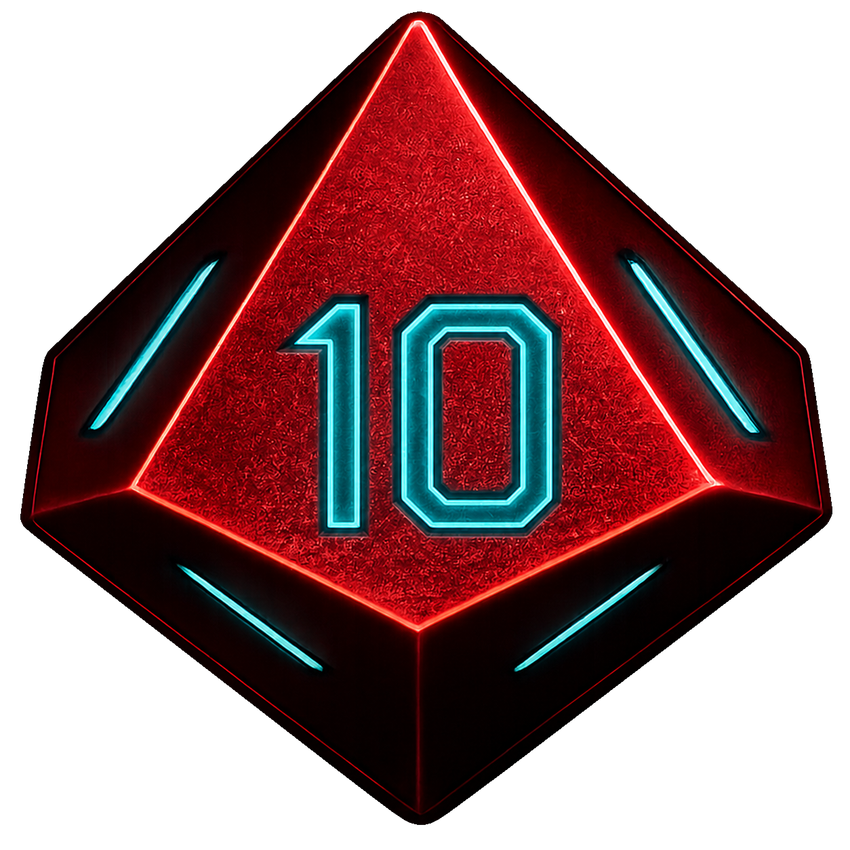
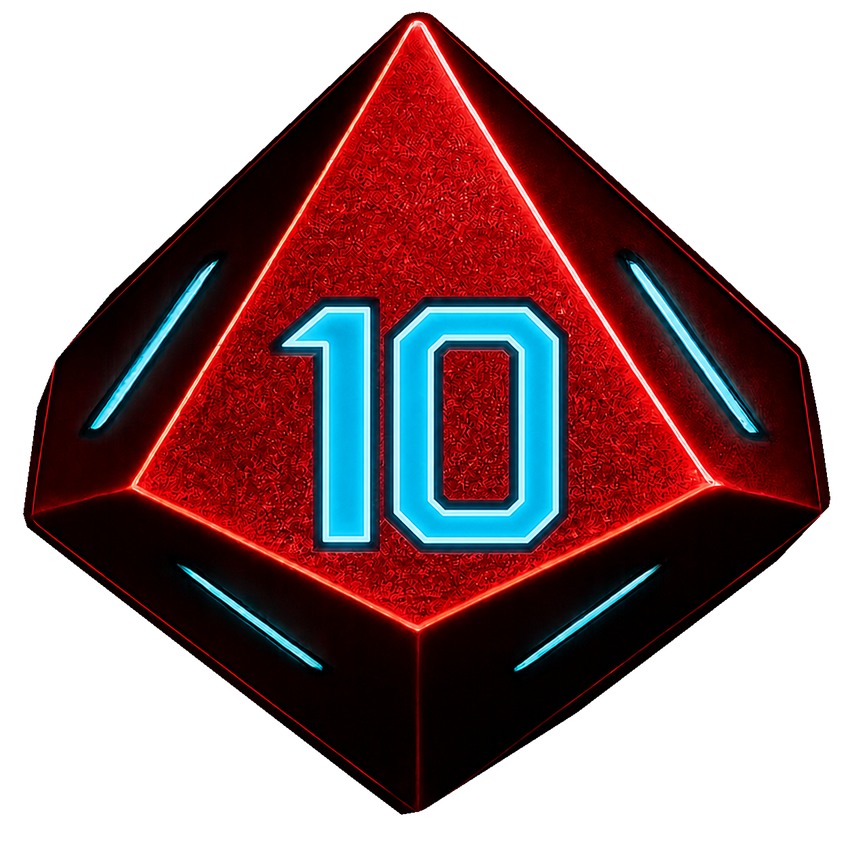
Improve red D10 ten readability

diff --git a/README.md b/README.md
@@ -31,7 +31,7 @@ https://github.com/GMPneuma/PneumaChatDice/releases
 
 ## Compatibility
 
-Version 0.2.1 targets:
+Version 0.2.2 targets:
 
 - Foundry Virtual Tabletop 11-12
 - Cyberpunk RED - CORE v0.88.2
